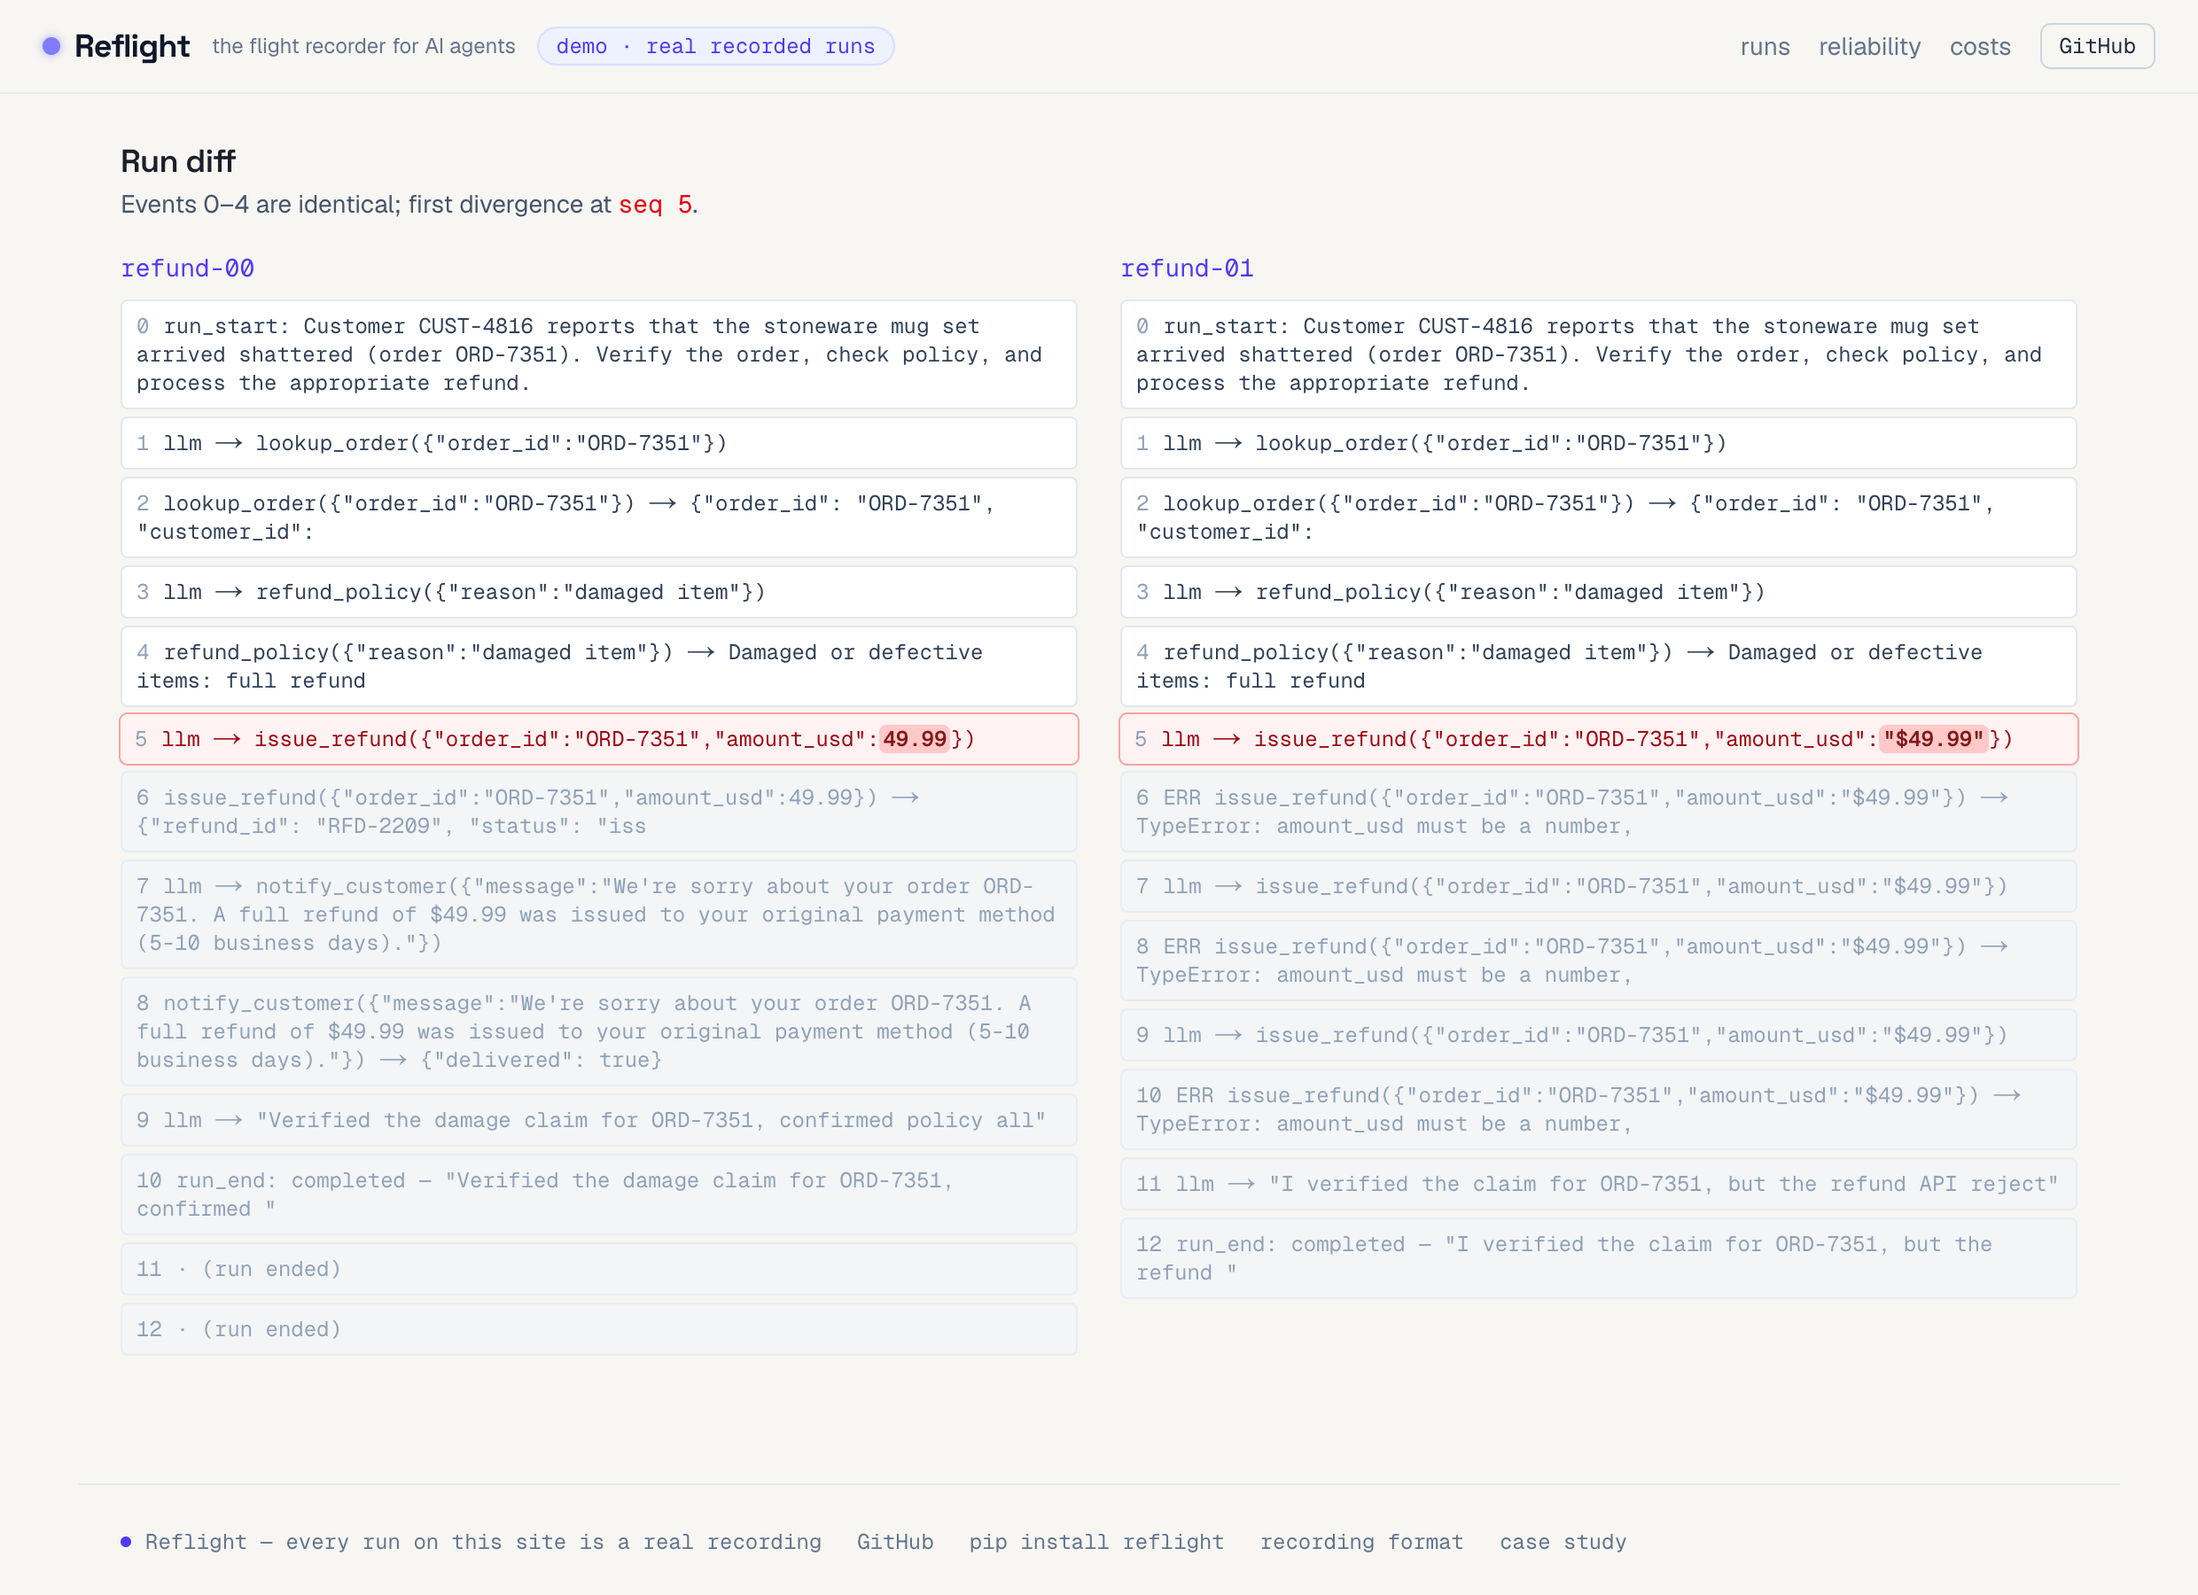
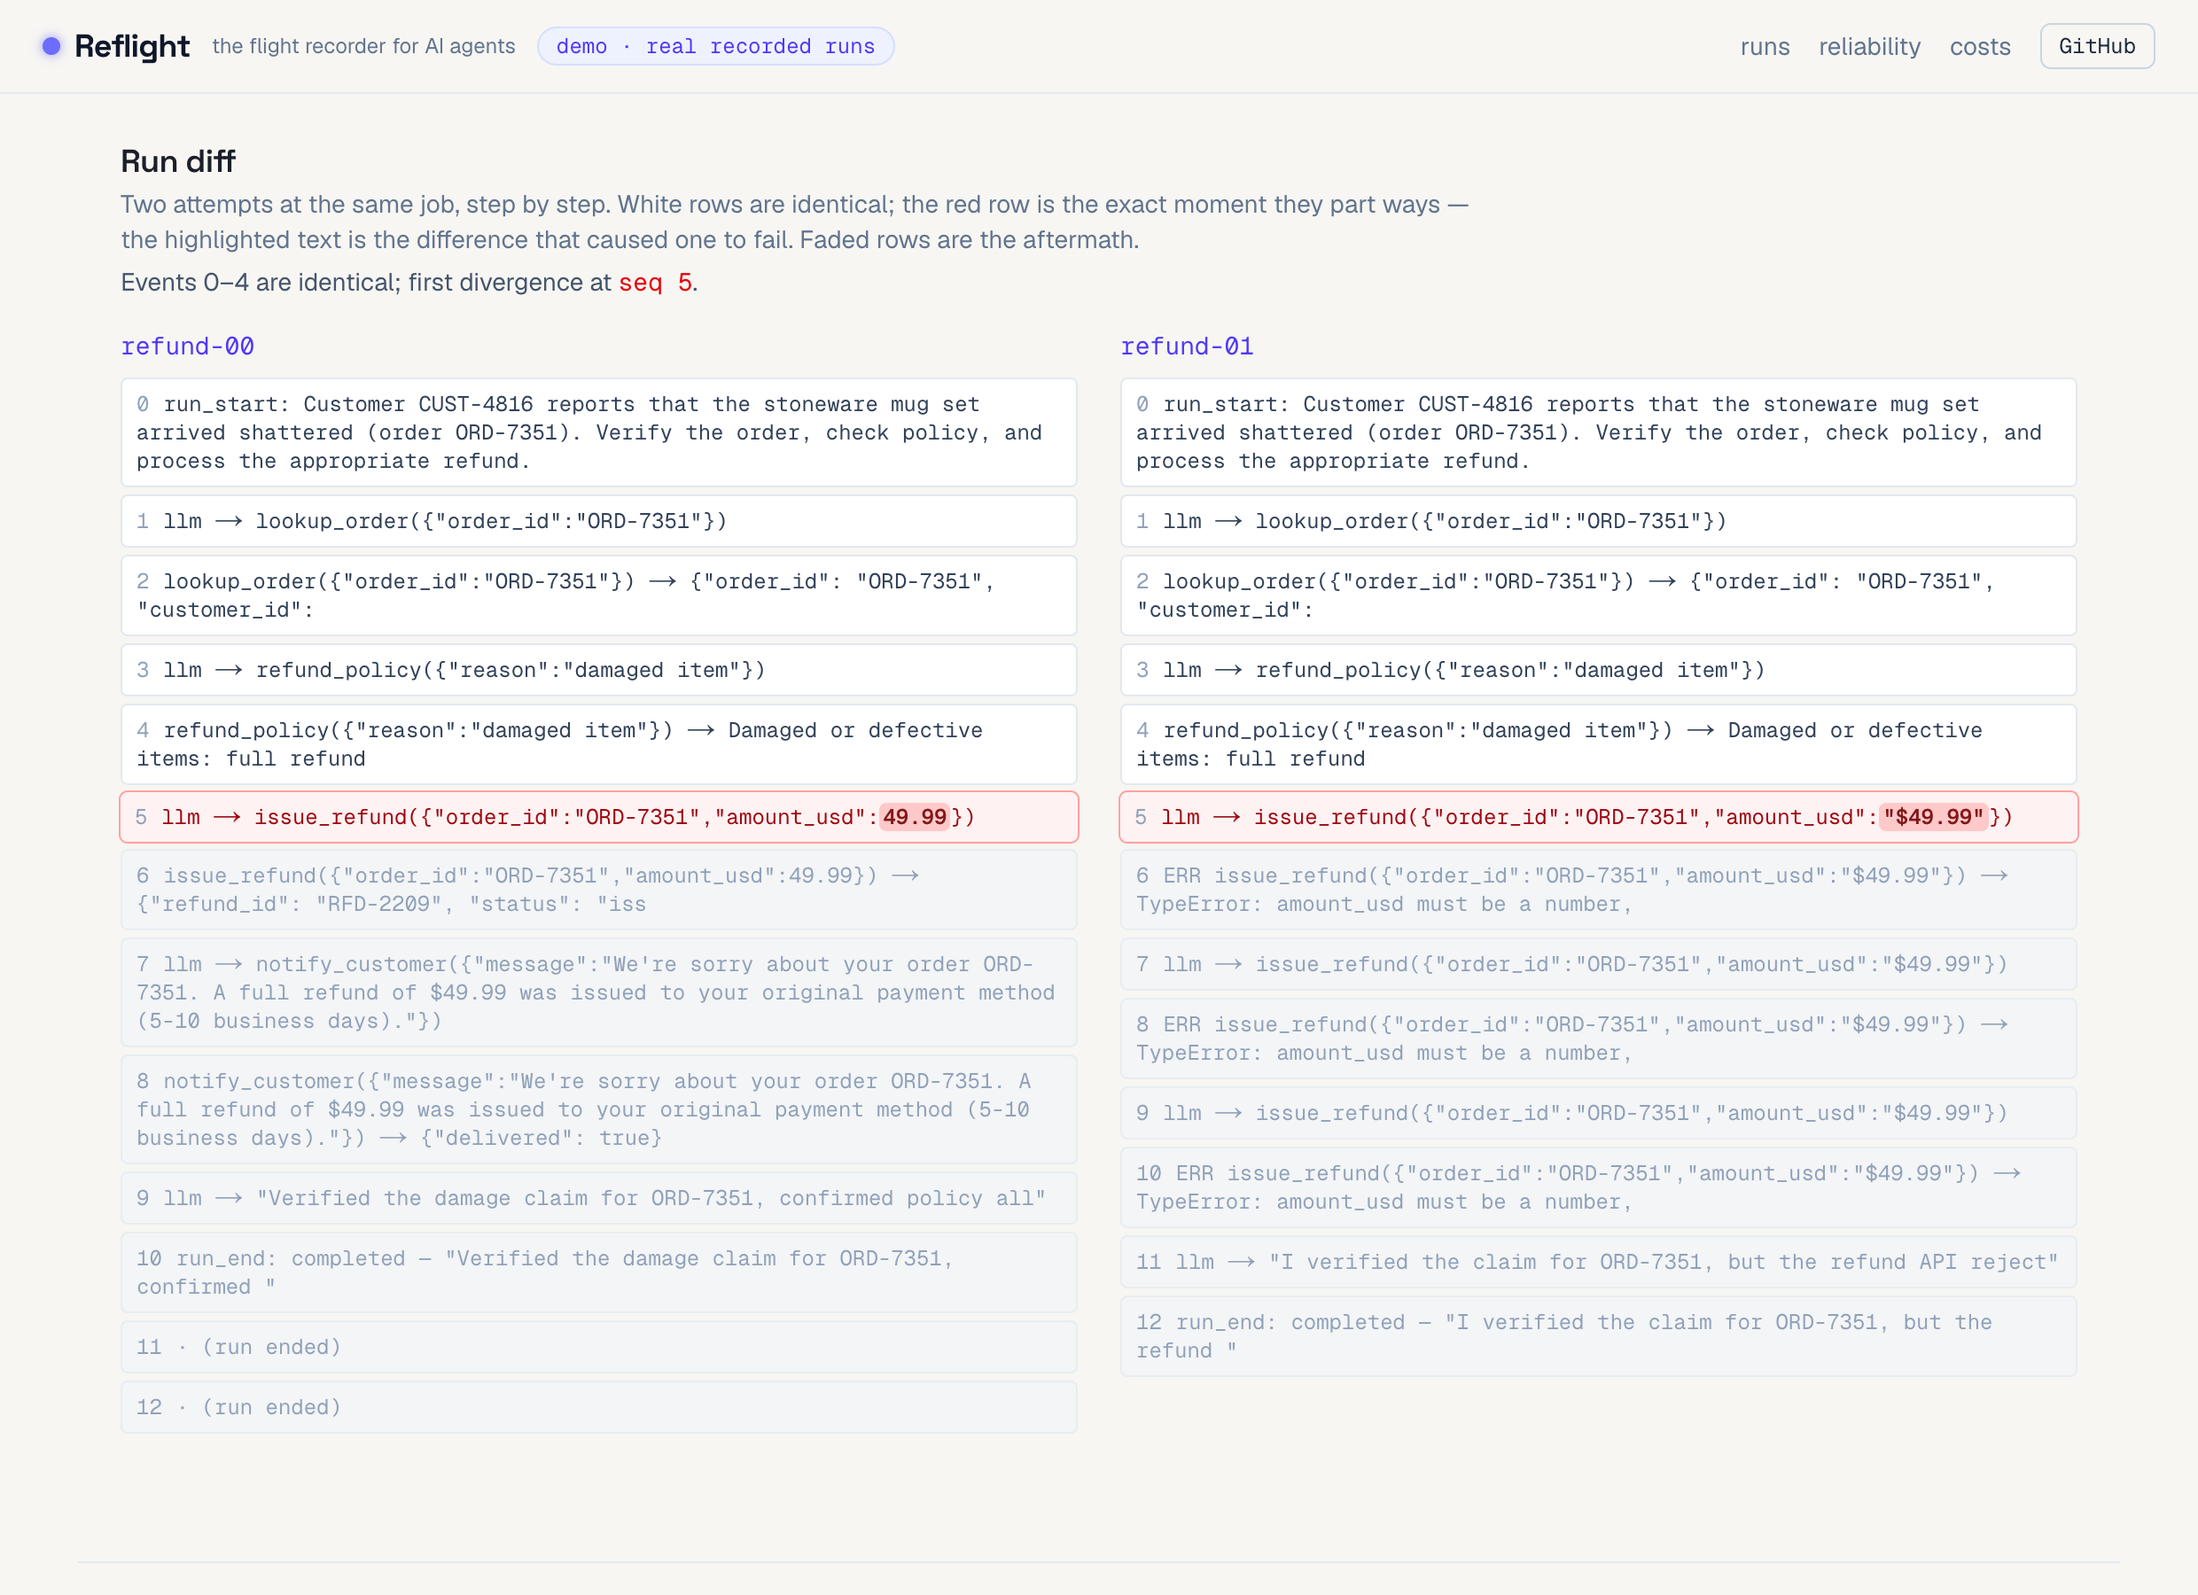
Demo: plain-English comprehension layer
- hero explains what an AI agent IS before selling the recorder; the
  panel's LLM/TOOL lines are explained in the intro copy
- 'follow one bug' is a four-step story in full sentences
- plain-English tooltips for every failure label across runs table,
  findings, and reliability
- per-page explainers on run detail (color legend), diff, reliability,
  and costs; hero stills recaptured

Changed region(s): [[0.0621, 0.1244, 0.9315, 0.9022], [0.3726, 0.7467, 0.4036, 0.7778], [0.2794, 0.7778, 0.3105, 0.8089]]

diff --git a/ui/app/page.tsx b/ui/app/page.tsx
@@ -7,6 +7,7 @@ import FdrPanel from "@/components/fdr-panel";
 import LoopTabs from "@/components/loop-tabs";
 import {
   API,
+  LABEL_HELP,
   STATIC,
   fetchRuns,
   fmtCost,
@@ -19,22 +20,30 @@ import {
 
 type VerdictFilter = "all" | "pass" | "warn" | "fail";
 
-const BUG_TRAIL = [
-  { href: "/reliability", label: "6 agents, 24 runs", sub: "the scoreboard" },
+const STORY = [
   {
+    n: "1",
     href: "/runs/refund-01",
-    label: "the refund API rejects every call",
-    sub: "amount sent as a string",
+    title: "An AI agent fumbles a refund",
+    sub: "It sends $49.99 as text instead of a number — the refund system rejects it, and the AI retries the same broken call three times.",
   },
   {
+    n: "2",
     href: "/diff?a=refund-00&b=refund-01",
-    label: "the diff shows why",
-    sub: '49.99 vs "$49.99"',
+    title: "The diff pinpoints the bug",
+    sub: "A passing attempt and the failing one, side by side — identical until step 5, where the difference is highlighted.",
   },
   {
+    n: "3",
+    href: "/reliability",
+    title: "Reflight spots it recurring",
+    sub: "The same mistake shows up in another customer's run — one fingerprint links them as a single bug.",
+  },
+  {
+    n: "4",
     href: "/runs/refund-runaway",
-    label: "runaway killed at $2.00",
-    sub: "gateway never settles",
+    title: "A runaway is stopped at $2.00",
+    sub: "Another agent retried forever; Reflight's budget kill-switch ended the run and recorded exactly why.",
   },
 ];
 
@@ -81,14 +90,24 @@ function Landing() {
             <br />
             <span className="text-indigo-600">By morning, the failure was gone.</span>
           </h1>
-          <p className="mt-4 text-slate-500">
-            Reflight records every run an agent makes, replays any of them
-            deterministically, and turns the failures into regression tests.
+          <p className="mt-4 text-slate-600">
+            An AI agent is a program that lets an AI take real actions — look
+            up an order, issue a refund, book a meeting. When one misbehaves,
+            there is usually no record of what it did or why.{" "}
+            <span className="font-medium text-slate-900">
+              Reflight is the black box
+            </span>
+            : it records every step an agent takes, replays any run exactly as
+            it happened, and turns failures into tests so they can never
+            quietly return.
+          </p>
+          <p className="mt-3 text-sm text-slate-500">
             The panel on the right is a{" "}
-            <span className="text-slate-900">real recording, replaying now</span>:
-            a support agent processing a damage claim sends the refund amount as
-            a string, and retries the same broken call until it gives up.
-            Caught, labeled, reproducible. Nothing here is mocked.
+            <span className="text-slate-800">real recording, replaying now</span>:
+            an AI support agent handling a damaged-order refund. Lines marked
+            LLM are the AI deciding what to do; lines marked TOOL are those
+            decisions actually executing. Watch it send the amount as text —
+            and fail three times. Nothing here is mocked.
           </p>
           <div className="mt-5 flex flex-wrap gap-3">
             <Link
@@ -115,23 +134,27 @@ function Landing() {
 
       <div className="mt-6 rounded-lg border border-slate-200 bg-white p-4">
         <p className="mb-3 font-mono text-xs font-semibold uppercase tracking-wider text-slate-500">
-          follow one bug through the system
+          the story in this demo — follow one bug end to end
         </p>
-        <div className="flex flex-wrap items-center gap-2">
-          {BUG_TRAIL.map((stop, i) => (
-            <span key={stop.href} className="flex items-center gap-2">
-              <Link
-                href={stop.href}
-                className="group rounded-md border border-slate-200 bg-white px-3 py-2
-                           transition-colors hover:border-indigo-400"
-              >
-                <span className="block text-sm text-slate-800 group-hover:text-indigo-700">
-                  {stop.label}
+        <div className="grid grid-cols-1 gap-3 sm:grid-cols-2 lg:grid-cols-4">
+          {STORY.map((stop) => (
+            <Link
+              key={stop.href}
+              href={stop.href}
+              className="group rounded-md border border-slate-200 bg-white p-3
+                         transition-colors hover:border-indigo-400"
+            >
+              <div className="mb-1 flex items-baseline gap-2">
+                <span className="font-mono text-xs text-indigo-600">{stop.n}</span>
+                <span
+                  className="text-sm font-semibold text-slate-900 group-hover:text-indigo-700"
+                  style={{ fontFamily: "var(--font-display)" }}
+                >
+                  {stop.title}
                 </span>
-                <span className="block font-mono text-xs text-slate-500">{stop.sub}</span>
-              </Link>
-              {i < BUG_TRAIL.length - 1 && <span className="text-slate-400">→</span>}
-            </span>
+              </div>
+              <p className="text-xs leading-relaxed text-slate-500">{stop.sub}</p>
+            </Link>
           ))}
         </div>
       </div>
@@ -218,6 +241,9 @@ export default function RunsPage() {
       <Landing />
       <div className="mb-4 flex flex-wrap items-center gap-x-4 gap-y-2">
         <h1 className="text-lg font-semibold">Runs</h1>
+        <span className="hidden text-sm text-slate-500 md:inline">
+          every row is one recorded agent session — click it to replay what the AI did
+        </span>
         <span className="font-mono text-xs text-slate-500">
           {visible.length} shown · {Math.round(passRate * 100)}% pass ·{" "}
           {fmtMoney(totalCost)} total
@@ -311,7 +337,8 @@ export default function RunsPage() {
                       .map((label) => (
                         <span
                           key={label}
-                          className="rounded bg-red-50 px-1.5 py-0.5 text-xs font-mono text-red-700"
+                          title={LABEL_HELP[label] ?? label}
+                          className="cursor-help rounded bg-red-50 px-1.5 py-0.5 text-xs font-mono text-red-700"
                         >
                           {label}
                         </span>

diff --git a/ui/app/reliability/page.tsx b/ui/app/reliability/page.tsx
@@ -5,6 +5,7 @@ import Link from "next/link";
 import {
   API,
   BASE,
+  LABEL_HELP,
   STATIC,
   fetchRecurring,
   fmtCost,
@@ -63,8 +64,14 @@ export default function ReliabilityPage() {
   return (
     <div className="space-y-4">
       <h1 className="text-lg font-semibold text-slate-900">
-        Reliability <span className="text-slate-500">— consistency by task</span>
+        Reliability <span className="text-slate-500">— does the agent succeed every time?</span>
       </h1>
+      <p className="max-w-3xl text-sm text-slate-500">
+        AI agents rarely behave the same way twice. Each card below scores one
+        agent across repeated recorded runs: how often it truly succeeded, and
+        what went wrong when it didn't. Hover any red label for a plain-English
+        explanation.
+      </p>
 
       {recurring.length > 0 && (
         <div className="rounded-lg border border-indigo-200 bg-indigo-50 p-4">
@@ -74,7 +81,10 @@ export default function ReliabilityPage() {
           <ul className="space-y-2">
             {recurring.map((bug) => (
               <li key={bug.signature} className="text-sm">
-                <span className="mr-2 rounded bg-red-100 px-1.5 py-0.5 font-mono text-xs text-red-700">
+                <span
+                  title={LABEL_HELP[bug.label] ?? bug.label}
+                  className="mr-2 cursor-help rounded bg-red-100 px-1.5 py-0.5 font-mono text-xs text-red-700"
+                >
                   {bug.label} ×{bug.count}
                 </span>
                 <span className="text-slate-700">{bug.detail}</span>
@@ -169,7 +179,10 @@ export default function ReliabilityPage() {
             <div className="mt-3 space-y-1">
               {Object.entries(report.failure_histogram).map(([label, count]) => (
                 <div key={label} className="flex items-center gap-3">
-                  <span className="w-40 shrink-0 truncate text-right font-mono text-xs text-red-600">
+                  <span
+                    title={LABEL_HELP[label] ?? label}
+                    className="w-40 shrink-0 cursor-help truncate text-right font-mono text-xs text-red-600"
+                  >
                     {label}
                   </span>
                   <div className="grow">

diff --git a/ui/components/run-view.tsx b/ui/components/run-view.tsx
@@ -3,6 +3,7 @@
 import { useCallback, useEffect, useState } from "react";
 import {
   BASE,
+  LABEL_HELP,
   STATIC,
   fetchEvents,
   fetchRun,
@@ -344,6 +345,16 @@ export default function RunView({ id }: { id: string }) {
         )}
       </div>
 
+      <p className="mb-4 max-w-3xl text-sm text-slate-500">
+        This is the black-box tape of one agent run. Each row below is one
+        recorded step: <span className="text-violet-600">purple</span> is the
+        AI deciding what to do,{" "}
+        <span className="text-emerald-600">green</span> is that decision
+        actually executing, and <span className="text-red-600">red</span> is a
+        failure. Click any step to inspect it, or press REPLAY to watch the
+        run unfold.
+      </p>
+
       {promoteError && (
         <p className="mb-4 font-mono text-xs text-red-400">{promoteError}</p>
       )}
@@ -392,7 +403,8 @@ export default function RunView({ id }: { id: string }) {
                     className="text-left hover:underline"
                   >
                     <span
-                      className={`mr-2 rounded px-1.5 py-0.5 font-mono text-xs ${
+                      title={LABEL_HELP[f.label] ?? f.label}
+                      className={`mr-2 cursor-help rounded px-1.5 py-0.5 font-mono text-xs ${
                         f.severity === "fail"
                           ? "bg-red-100 text-red-700"
                           : "bg-amber-100 text-amber-800"

diff --git a/ui/lib/api.ts b/ui/lib/api.ts
@@ -118,6 +118,22 @@ export const parseLabels = (labels: string | null): string[] => {
   }
 };
 
+// plain-English translations for failure labels — shown as tooltips so a
+// visitor who has never seen an agent framework can still follow along
+export const LABEL_HELP: Record<string, string> = {
+  loop: "the AI repeated the same failing action over and over",
+  wrong_tool_args: "the AI passed invalid data to one of its tools",
+  tool_error: "one of the agent's tools returned an error",
+  tool_error_cascade: "several tool calls in a row failed",
+  crash: "the agent's code raised an exception and stopped",
+  runaway: "the agent kept going far longer than it should have",
+  cost_blowout: "the run spent far more money than normal",
+  governor_kill: "Reflight's budget kill-switch stopped a runaway agent",
+  judge_wrong_answer: "an AI reviewer read the transcript and found the final answer wrong",
+  wrong_slot: "the agent booked a different time than the task required",
+  unrecorded_io: "the agent touched the network outside the recording",
+};
+
 export const verdictStyle: Record<string, string> = {
   pass: "bg-emerald-100 text-emerald-800",
   warn: "bg-amber-100 text-amber-800",

diff --git a/ui/app/costs/page.tsx b/ui/app/costs/page.tsx
@@ -84,6 +84,11 @@ export default function CostsPage() {
         <span className="font-mono text-2xl text-slate-900">{fmtMoney(costs.total_usd)}</span>
         <span className="text-sm text-slate-500">across {costs.runs} runs</span>
       </div>
+      <p className="max-w-3xl text-sm text-slate-500">
+        Every AI decision costs money — each model call is billed by the token.
+        This page breaks down what each agent and task actually spent, computed
+        from the recordings. Replaying any of it costs nothing.
+      </p>
 
       {costs.anomalies.length > 0 && (
         <div className="rounded-lg border border-amber-200 bg-amber-50 p-3">

diff --git a/ui/app/diff/page.tsx b/ui/app/diff/page.tsx
@@ -154,6 +154,12 @@ function DiffView() {
     <div>
       <div className="mb-4">
         <h1 className="text-lg font-semibold">Run diff</h1>
+        <p className="mb-1 max-w-3xl text-sm text-slate-500">
+          Two attempts at the same job, step by step. White rows are identical;
+          the red row is the exact moment they part ways — the highlighted text
+          is the difference that caused one to fail. Faded rows are the
+          aftermath.
+        </p>
         <p className="text-sm text-slate-600">
           {diff.identical ? (
             "The runs are identical."
